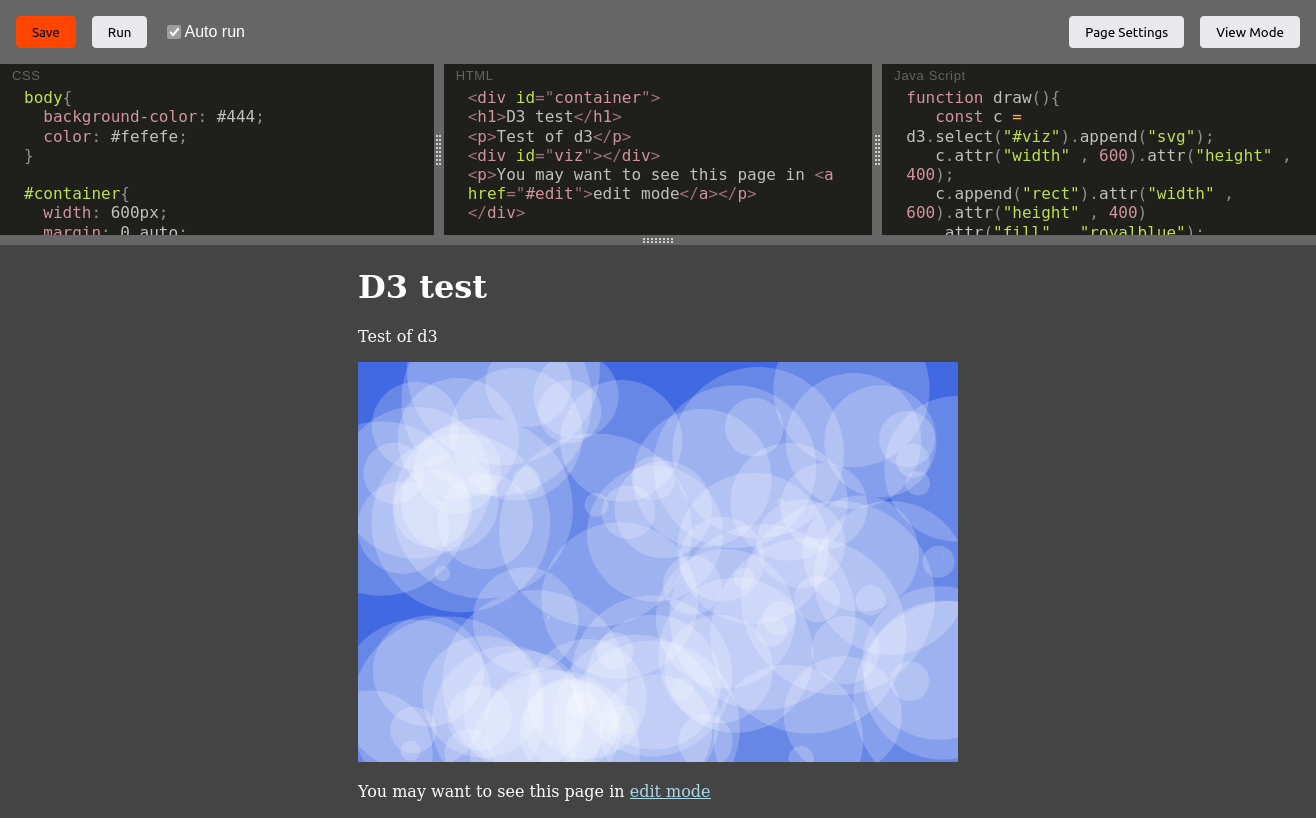
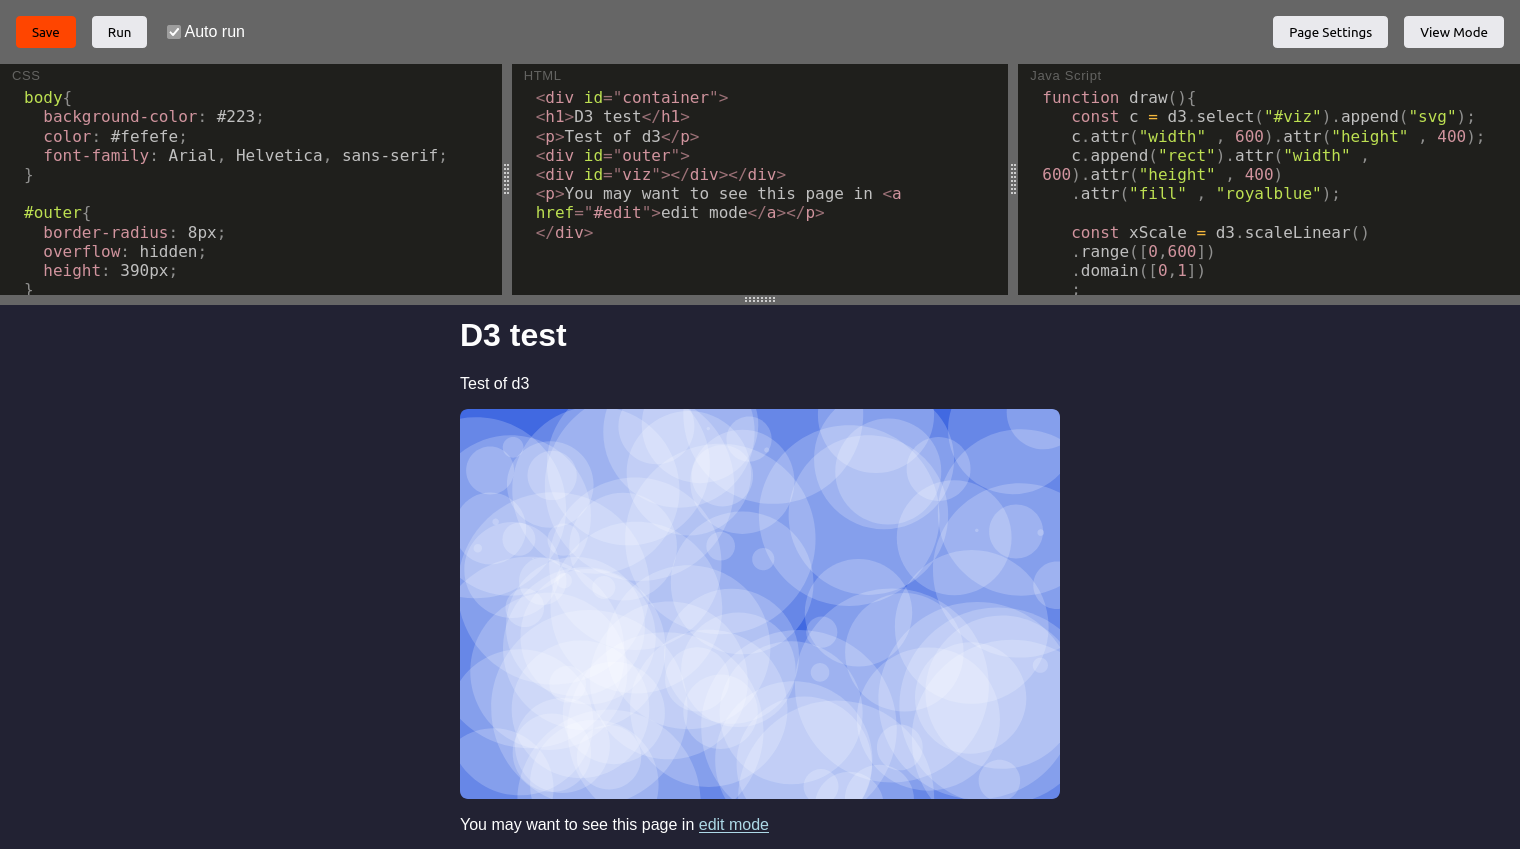
new example

diff --git a/dist/d3_test.html b/dist/d3_test.html
@@ -78,8 +78,15 @@ window.addEventListener("load" , draw)</script>
   <meta name="viewport" content="width=device-width, initial-scale=1.0">
 <style id="customCSS">
 body{
-  background-color: #444;
+  background-color: #223;
   color: #fefefe;
+  font-family: Arial, Helvetica, sans-serif;
+}
+
+#outer{
+  border-radius: 8px;
+  overflow: hidden;
+  height: 390px;
 }
 
 #container{
@@ -88,20 +95,22 @@ body{
 }
 a{
   color: lightblue !important;
-} 
+}
 </style>
 </head>
 <body>
 <div id="container">
 <h1>D3 test</h1>
 <p>Test of d3</p>
-<div id="viz"></div> 
+<div id="outer">
+<div id="viz"></div></div>
 <p>You may want to see this page in <a href="#edit">edit mode</a></p>
 </div> 
  <script id="htmlSource" type="text/html">&lt;div id="container"&gt;
 &lt;h1&gt;D3 test&lt;/h1&gt;
 &lt;p&gt;Test of d3&lt;/p&gt;
-&lt;div id="viz"&gt;&lt;/div&gt; 
+&lt;div id="outer"&gt;
+&lt;div id="viz"&gt;&lt;/div&gt;&lt;/div&gt;
 &lt;p&gt;You may want to see this page in &lt;a href="#edit"&gt;edit mode&lt;/a&gt;&lt;/p&gt;
 &lt;/div&gt; </script>
 </body>
